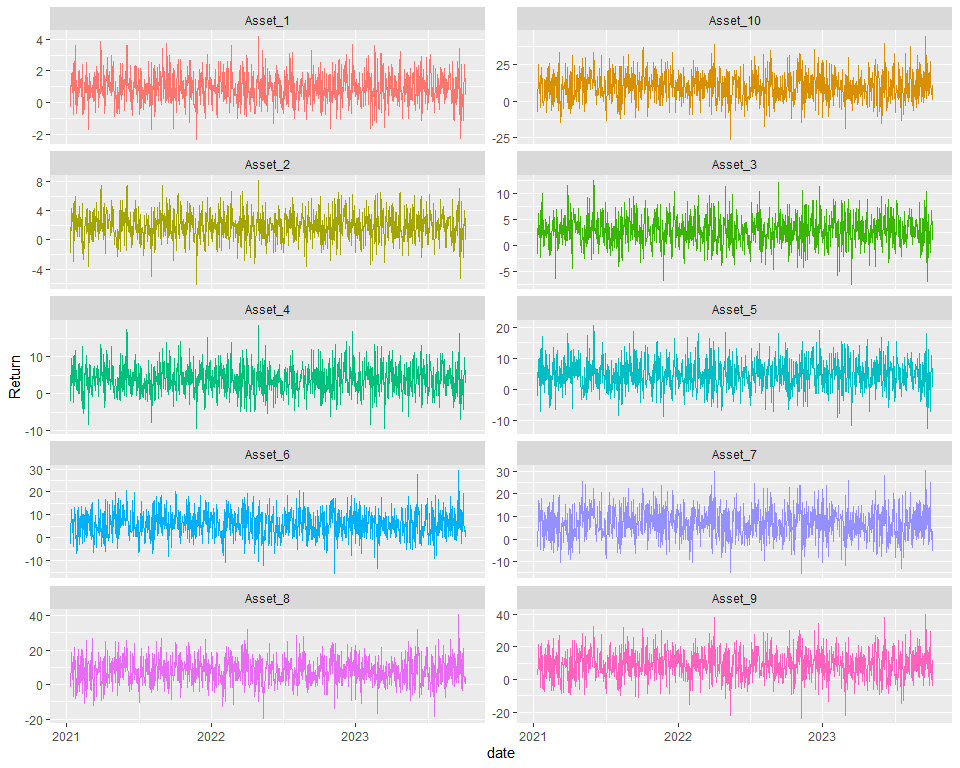
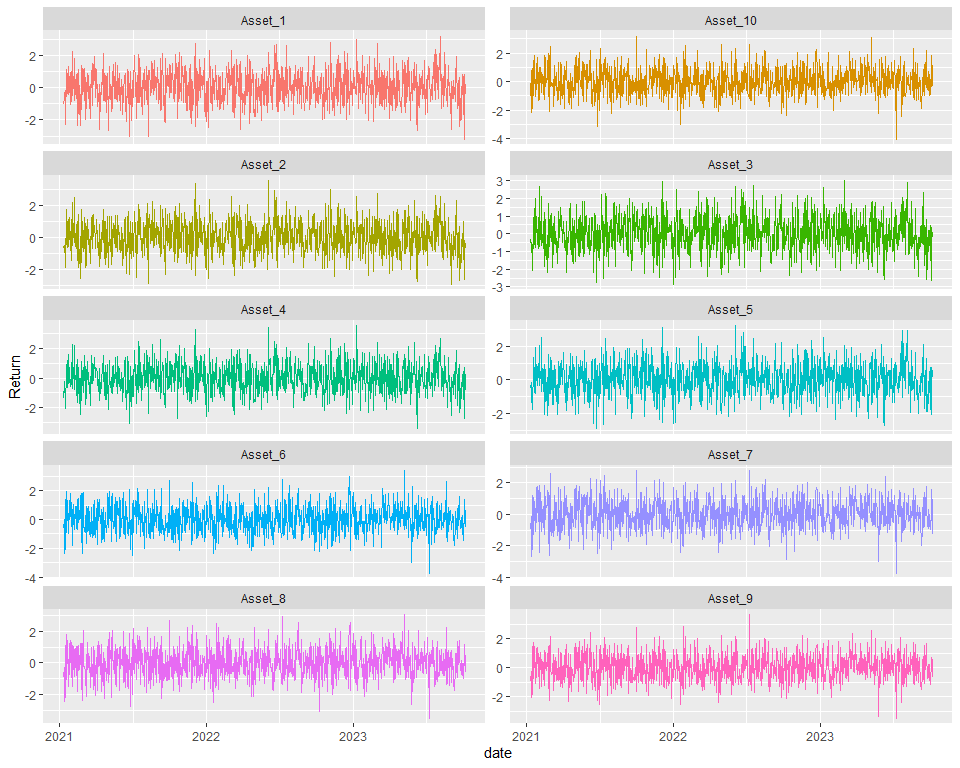
backup

diff --git a/README.md b/README.md
@@ -213,16 +213,30 @@ gen_corr <- function (D = 50,
 Demonstrating the use of gen\_corr
 
 ``` r
-gen_corr(D = 60, clusters = "overlapping", num_layers = 4, num_clusters = c(10,5,4,2)) %>% ggcorrplot::ggcorrplot(title = "Overlapping Clusters", hc.order = TRUE)
+gen_corr(D = 60, clusters = "none") %>% 
+  ggcorrplot::ggcorrplot(title = "No Clusters", hc.order = FALSE)
 ```
 
 <img src="README_files/figure-gfm/using gen_corr-1.png" width="80%" height="80%" />
 
-## Creating a Dataset of Emperical Correlation Matrix’s
+``` r
+gen_corr(D = 60, clusters = "non-overlapping", num_clusters = c(3)) %>% 
+  ggcorrplot::ggcorrplot(title = "Non-Overlapping Clusters", hc.order = FALSE)
+```
+
+<img src="README_files/figure-gfm/using gen_corr-2.png" width="80%" height="80%" />
+
+``` r
+gen_corr(D = 60, clusters = "overlapping", num_layers = 4, num_clusters = c(10,5,4,2)) %>% ggcorrplot::ggcorrplot(title = "Overlapping Clusters", hc.order = FALSE)
+```
+
+<img src="README_files/figure-gfm/using gen_corr-3.png" width="80%" height="80%" />
+
+## Creating a Dataset of Emperical Correlation Matrices
 
 Since it would also be useful for MCmarkets’s users to have easy acess
 to some labeled empirical correlation matrices, a data set containing
-correlation matricies labeled “stressed”, “rally” and “normal” is now
+correlation matrices labeled “stressed”, “rally” and “normal” is now
 constructed.
 
 S\&P500 data since 1/01/2000 is used to sample covariance matrices that
@@ -487,7 +501,7 @@ training_data <- 1:length(market_data) %>% map(~calc_cor(market_data, .x))
 save(training_data, file = "data/training_data.Rda")
 ```
 
-#### An Example of Each Type of Correlation Matrix
+#### An Example of Each Type of Emperical Correlation Matrix
 
 Note that they are converted from covariance matrices to correlation
 matrices before being plotted.
@@ -827,15 +841,6 @@ The simulated innovations do not yet demonstrate the mean and/or
 volatility persistence observed in real asset return series, hence why I
 refer to them as innovations.
 
-``` r
-p1 <- ggAcf(rnorm(200)) + theme_bw() + labs(title = "ACF of Innovations")
-p2 <- ggAcf(rnorm(200)^2) + theme_bw() + labs(title = "ACF of Squared Innovations")
-p <- p1 / p2 
-p + plot_annotation(title = "No Significant Persistence in Mean or Volatility")
-```
-
-<img src="README_files/figure-gfm/archlm-1.png" width="80%" height="80%" />
-
 In this step I introduce autocorrelation and volatility using an
 ARMA(p,q) + APGARCH(q,p) model.
 
@@ -1054,6 +1059,7 @@ corr <- gen_corr(D, cluster = "non-overlapping", num_clusters = 2)
 
 ncop <- ellipCopula(family = "normal", dispstr = "un", param = P2p(corr), dim = D)
 
+set.seed(1234)
 data <- rCopula(k, ncop)
 
 # Creating a date vector
@@ -1066,7 +1072,7 @@ data <- as_tibble(data) %>%
         mutate(date = dates) %>%
         gather(Asset, Value, -date)
 
-# Vinualisation
+# Visualization
 
 data %>% ggplot() +
   geom_histogram(aes(x = Value, color = "Asset"), bins = 15) +
@@ -1082,8 +1088,8 @@ data %>% ggplot() +
 # ---------------
 # First set the mean and sd for each asset
 args <- tibble(Asset = glue::glue("Asset_{1:D}") %>% as.character()) %>%
-        mutate(mean = 1:10,  # Setting mean
-               sd = 1:10)    # and sd;  done like this to show that it works
+        mutate(mean = 0,  # Setting mean
+               sd = 1)    # and sd;  can also be a vector of length = n.o assets
 
 # Then convert Uniform marginal distributions to norm
 data <- data %>% left_join(., args, by = "Asset") %>%
@@ -1092,7 +1098,28 @@ data <- data %>% left_join(., args, by = "Asset") %>%
             select(date, Asset, Return) 
 
 
-# Vinualising the transformations
+# Visualizing the transformations
+data %>% group_by(Asset) %>% mutate(mean = mean(Return),
+                                    sd  = sd(Return))
+```
+
+    ## # A tibble: 10,000 x 5
+    ## # Groups:   Asset [10]
+    ##    date       Asset    Return     mean    sd
+    ##    <date>     <chr>     <dbl>    <dbl> <dbl>
+    ##  1 2021-01-11 Asset_1  -1.03   0.0341  1.02 
+    ##  2 2021-01-11 Asset_2  -0.557  0.0150  1.03 
+    ##  3 2021-01-11 Asset_3  -0.301  0.0212  1.01 
+    ##  4 2021-01-11 Asset_4  -1.39   0.0160  1.02 
+    ##  5 2021-01-11 Asset_5  -0.509  0.0262  1.01 
+    ##  6 2021-01-11 Asset_6  -0.597 -0.00147 0.954
+    ##  7 2021-01-11 Asset_7  -0.939  0.0150  0.953
+    ##  8 2021-01-11 Asset_8  -0.930 -0.00421 0.954
+    ##  9 2021-01-11 Asset_9  -0.935  0.0107  0.934
+    ## 10 2021-01-11 Asset_10 -1.04  -0.00137 0.957
+    ## # ... with 9,990 more rows
+
+``` r
 data %>% ggplot() +
   geom_histogram(aes(x = Return, color = "Asset"), bins = 15) +
   facet_wrap(~Asset, nrow = 2, scales = "free_x") + 
@@ -1102,7 +1129,7 @@ data %>% ggplot() +
 <img src="README_files/figure-gfm/step 1-2.png" width="80%" height="80%" />
 
 ``` r
-# For comparison with step 3 data
+# For comparison from step 3
 data %>% ggplot() +
   geom_line(aes(x=date, y=Return, color = Asset)) + 
   facet_wrap(~Asset, scales = "free_y", ncol = 2) + 
@@ -1118,10 +1145,10 @@ data %>% ggplot() +
 # Tibble with with garh parameters and defaults
 ts_args <- tibble(Asset = glue::glue("Asset_{1:D}") %>% as.character()) %>%
             mutate(omega = 1,
-                   alpha = seq(0, 1, length.out = 10),
+                   alpha = seq(0, 0.999, length.out = 10),
                    gamma =0,
                    beta = 0,
-                   mu = rnorm(10, 0.02, 0.01),   #changed form NULL to 0
+                   mu = rnorm(10, 0.02, 0.01),   #changed from NULL to 0
                    ar = 0,
                    ma = 0,
                    delta = 1.98)
@@ -1148,6 +1175,55 @@ data %>% ggplot() +
 ```
 
 <img src="README_files/figure-gfm/step 1-4.png" width="80%" height="80%" />
+
+``` r
+# ------------------------------------
+# Steps 1 and 2 with hybrid copula
+# ------------------------------------
+
+# Creating copula onjects
+ncop <- ellipCopula(family = "normal", dispstr = "un", param = P2p(corr), dim = D)
+acop <- archmCopula(family = "clayton", param = 4,  dim = D)
+
+clayton_weight <- 0.5
+data <- (clayton_weight*rCopula(copula = acop, n =  1000)) + (1-clayton_weight)*rCopula(copula = ncop, n = 1000)
+
+set.seed(1234)
+data <- as_tibble(data) %>% 
+  purrr::set_names(glue::glue("Asset_{1:ncol(data)}")%>% as.character()) %>%
+        mutate(date = dates) %>%
+        gather(Asset, Value, -date) 
+
+args <- tibble(Asset = glue::glue("Asset_{1:D}") %>% as.character()) %>%
+        mutate(mean = 0,  # Setting mean
+               sd = 1)    # and sd;  can also be a vector of length = n.o assets
+
+# Then convert Uniform marginal distributions to norm
+data <- data %>% left_join(., args, by = "Asset") %>%
+            group_by(Asset) %>%  arrange(date) %>%
+            mutate(Return =  qnorm(Value, mean, sd)) %>%
+            select(date, Asset, Return) 
+
+# SD can't be set as intended. Not sure what is going on (more on this later)
+data %>% group_by(Asset) %>% mutate(mean = mean(Return),
+                                    sd  = sd(Return))
+```
+
+    ## # A tibble: 10,000 x 5
+    ## # Groups:   Asset [10]
+    ##    date       Asset    Return      mean    sd
+    ##    <date>     <chr>     <dbl>     <dbl> <dbl>
+    ##  1 2021-01-11 Asset_1   0.188 -0.0154   0.588
+    ##  2 2021-01-11 Asset_2   0.322  0.00708  0.591
+    ##  3 2021-01-11 Asset_3   0.581 -0.00428  0.598
+    ##  4 2021-01-11 Asset_4   0.266 -0.00223  0.606
+    ##  5 2021-01-11 Asset_5   0.517 -0.00536  0.598
+    ##  6 2021-01-11 Asset_6  -0.594  0.00647  0.596
+    ##  7 2021-01-11 Asset_7  -0.883  0.0146   0.596
+    ##  8 2021-01-11 Asset_8  -0.908 -0.000244 0.585
+    ##  9 2021-01-11 Asset_9  -0.738  0.0118   0.590
+    ## 10 2021-01-11 Asset_10 -0.866 -0.00201  0.599
+    ## # ... with 9,990 more rows
 
 ### sim\_market
 
@@ -1297,7 +1373,7 @@ sim_market <- function(corr,
         if(left_cop_weight == 1) {
             data <- rCopula(k, Acop)
         } else {
-            data <- (left_cop_weight*rCopula(k, Acop) + (1-left_cop_weight)*rCopula(k, Ecop))
+            data <- left_cop_weight*rCopula(k, Acop) + (1-left_cop_weight)*rCopula(k, Ecop)
         }
 
     # Creating a date vector
@@ -1466,14 +1542,14 @@ data_sgt <- sim_market(corr = Corr,
 # But does it work with left_cop_weight =! 0?
 
 set.seed(123)
-data_lcz <- sim_market(corr = Corr, 
-                 mv_dist = "t",
-                 mv_df = 4,
-                 left_cop_param = 5,
-                 left_cop_weight = 0,
-                 marginal_dist = "norm",
-                 marginal_dist_model = list(mu = 0, sd = 1),
-                 k = 500)
+data_nlc <- sim_market(corr = Corr, 
+                       mv_dist = "t",
+                       mv_df = 4,
+                       left_cop_param = 5,
+                       left_cop_weight = 0,
+                       marginal_dist = "norm",
+                       marginal_dist_model = list(mu = 0, sd = 1),
+                       k = 500)
 ```
 
     ## Warning in rmvnorm(n, sigma = sigma, ...): sigma is numerically not positive
@@ -1481,58 +1557,88 @@ data_lcz <- sim_market(corr = Corr,
 
 ``` r
 set.seed(123)
-data_lcnz <- sim_market(corr = Corr, 
-                 mv_dist = "t",
-                 mv_df = 4,
-                 left_cop_param = 5,
-                 left_cop_weight = 0.5,
-                 marginal_dist = "norm",
-                 marginal_dist_model = list(mu = 0, sd = 1),
-                 k = 500)
+data_lc <- sim_market(corr = Corr, 
+                      mv_dist = "t",
+                      mv_df = 4,
+                      left_cop_param = 5,
+                      left_cop_weight = 0.5,
+                      marginal_dist = "norm",
+                      marginal_dist_model = list(mu = 0, sd = 1),
+                      k = 500)
 ```
 
     ## Warning in rmvnorm(n, sigma = sigma, ...): sigma is numerically not positive
     ## semidefinite
 
 ``` r
+set.seed(123)
+data_lco <- sim_market(corr = Corr, 
+                      mv_dist = "t",
+                      mv_df = 4,
+                      left_cop_param = 5,
+                      left_cop_weight = 1,
+                      marginal_dist = "norm",
+                      marginal_dist_model = list(mu = 0, sd = 1),
+                      k = 500)
+
 # checking sd's
-data_lcz %>% group_by(Asset) %>% mutate(sd = sd(Return)) # sd = 1
+data_nlc %>% group_by(Asset) %>% mutate(sd = sd(Return)) # sd = 1
 ```
 
     ## # A tibble: 25,000 x 4
     ## # Groups:   Asset [50]
     ##    date       Asset    Return    sd
     ##    <date>     <glue>    <dbl> <dbl>
-    ##  1 2021-01-11 Asset_1   0.387 0.968
-    ##  2 2021-01-11 Asset_2   0.270 1.02 
-    ##  3 2021-01-11 Asset_3   0.264 1.03 
-    ##  4 2021-01-11 Asset_4   0.824 1.02 
-    ##  5 2021-01-11 Asset_5   0.187 1.00 
-    ##  6 2021-01-11 Asset_6   0.909 1.02 
-    ##  7 2021-01-11 Asset_7  -0.334 1.01 
-    ##  8 2021-01-11 Asset_8   0.556 1.01 
-    ##  9 2021-01-11 Asset_9   0.369 0.993
-    ## 10 2021-01-11 Asset_10  0.407 0.993
+    ##  1 2021-01-12 Asset_1   0.387 0.968
+    ##  2 2021-01-12 Asset_2   0.270 1.02 
+    ##  3 2021-01-12 Asset_3   0.264 1.03 
+    ##  4 2021-01-12 Asset_4   0.824 1.02 
+    ##  5 2021-01-12 Asset_5   0.187 1.00 
+    ##  6 2021-01-12 Asset_6   0.909 1.02 
+    ##  7 2021-01-12 Asset_7  -0.334 1.01 
+    ##  8 2021-01-12 Asset_8   0.556 1.01 
+    ##  9 2021-01-12 Asset_9   0.369 0.993
+    ## 10 2021-01-12 Asset_10  0.407 0.993
     ## # ... with 24,990 more rows
 
 ``` r
-data_lcnz %>% group_by(Asset) %>% mutate(sd = sd(Return)) # sd approx = 0.59
+data_lc %>% group_by(Asset) %>% mutate(sd = sd(Return)) # sd approx = 0.58
 ```
 
     ## # A tibble: 25,000 x 4
     ## # Groups:   Asset [50]
     ##    date       Asset     Return    sd
     ##    <date>     <glue>     <dbl> <dbl>
-    ##  1 2021-01-11 Asset_1   0.296  0.580
-    ##  2 2021-01-11 Asset_2  -0.214  0.572
-    ##  3 2021-01-11 Asset_3   0.207  0.568
-    ##  4 2021-01-11 Asset_4   0.118  0.580
-    ##  5 2021-01-11 Asset_5   0.265  0.582
-    ##  6 2021-01-11 Asset_6   0.0234 0.583
-    ##  7 2021-01-11 Asset_7   0.0661 0.570
-    ##  8 2021-01-11 Asset_8   0.0955 0.564
-    ##  9 2021-01-11 Asset_9   0.289  0.569
-    ## 10 2021-01-11 Asset_10  0.478  0.592
+    ##  1 2021-01-12 Asset_1   0.296  0.580
+    ##  2 2021-01-12 Asset_2  -0.214  0.572
+    ##  3 2021-01-12 Asset_3   0.207  0.568
+    ##  4 2021-01-12 Asset_4   0.118  0.580
+    ##  5 2021-01-12 Asset_5   0.265  0.582
+    ##  6 2021-01-12 Asset_6   0.0234 0.583
+    ##  7 2021-01-12 Asset_7   0.0661 0.570
+    ##  8 2021-01-12 Asset_8   0.0955 0.564
+    ##  9 2021-01-12 Asset_9   0.289  0.569
+    ## 10 2021-01-12 Asset_10  0.478  0.592
+    ## # ... with 24,990 more rows
+
+``` r
+data_lco %>% group_by(Asset) %>% mutate(sd = sd(Return)) # sd approx = 1
+```
+
+    ## # A tibble: 25,000 x 4
+    ## # Groups:   Asset [50]
+    ##    date       Asset    Return    sd
+    ##    <date>     <glue>    <dbl> <dbl>
+    ##  1 2021-01-12 Asset_1   0.692 1.03 
+    ##  2 2021-01-12 Asset_2   0.169 1.00 
+    ##  3 2021-01-12 Asset_3   0.844 1.01 
+    ##  4 2021-01-12 Asset_4   0.544 1.04 
+    ##  5 2021-01-12 Asset_5   0.449 1.04 
+    ##  6 2021-01-12 Asset_6   0.487 1.04 
+    ##  7 2021-01-12 Asset_7   0.333 1.04 
+    ##  8 2021-01-12 Asset_8   0.520 1.05 
+    ##  9 2021-01-12 Asset_9   1.49  0.981
+    ## 10 2021-01-12 Asset_10  0.750 1.02 
     ## # ... with 24,990 more rows
 
 ``` r
